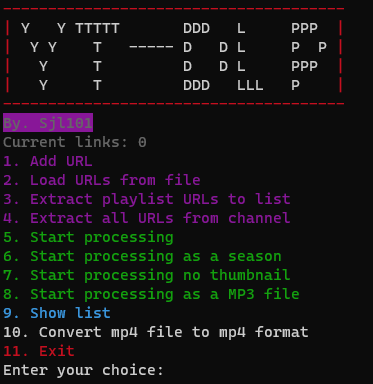
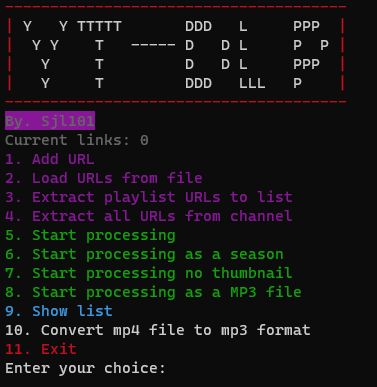
update
changed image and some code

Changed region(s): [[0.0, 0.0, 0.9142, 1.0]]

diff --git a/yt-dlp.py b/yt-dlp.py
@@ -7,6 +7,7 @@ from pytube import Playlist
 from colorama import Fore, Back, Style
 import scrapetube
 from pydub import AudioSegment
+from datetime import datetime
 
 class VideoDownloaderApp:
     def __init__(self):
@@ -48,7 +49,7 @@ class VideoDownloaderApp:
 
     def load_urls_from_file(self, filename):
         script_directory = os.path.dirname(os.path.abspath(__file__))
-        file_path = os.path.join(script_directory, filename)
+        file_path = os.path.join(script_directory, "input", filename)
 
         try:
             with open(file_path, 'r') as file:
@@ -338,7 +339,7 @@ class VideoDownloaderApp:
 
     def move_to_urllog_file(self, url):
         with open(self.urllog_file, "a") as f:
-            f.write(url + "\n")
+            f.write(datetime.now() + url + "\n")
 
     def remove_from_input_file(self, url):
         script_directory = os.path.dirname(os.path.abspath(__file__))
@@ -373,9 +374,12 @@ class VideoDownloaderApp:
 
     def convert_mp4_to_mp3(self, input_file, output_file):
         try:
+            if not os.path.exists("mp3_output"):
+                # Create a new directory because it does not exist
+                os.makedirs("mp3_output")
             script_directory = os.path.dirname(os.path.abspath(__file__))
-            file_path = os.path.join(script_directory, input_file)
-            output_path = os.path.join(script_directory, output_file)
+            file_path = os.path.join(script_directory, "input",input_file)
+            output_path = os.path.join(script_directory, "mp3_output", output_file)
             command = f"ffmpeg -i {str(file_path)} -vn -acodec libmp3lame {str(output_path)}"
             os.system(command)
             print(f"Conversion successful! MP3 file saved as {output_path}")
@@ -386,6 +390,9 @@ class VideoDownloaderApp:
 if __name__ == '__main__':
     app = VideoDownloaderApp()
     while True:
+        if not os.path.exists("input"):
+                # Create a new directory because it does not exist
+                os.makedirs("input")
         os.system('cls' if os.name == 'nt' else 'clear')
         app.print_large_ascii_art("yt-dlp")
         print(Style.DIM + Fore.WHITE + Back.MAGENTA + "By. Sjl101"+ Back.RESET)
@@ -402,7 +409,7 @@ if __name__ == '__main__':
         print(Fore.GREEN + "7. Start processing no thumbnail")
         print(Fore.GREEN + "8. Start processing as a MP3 file")
         print(Fore.CYAN + "9. Show list")
-        print(Fore.WHITE + "10. Convert mp4 file to mp4 format")
+        print(Fore.WHITE + "10. Convert mp4 file to mp3 format")
         if not app.running:
             print(Fore.RED + "11. Exit") 
         choice = input(Fore.WHITE + "Enter your choice: ")
@@ -413,7 +420,7 @@ if __name__ == '__main__':
             filename = input(Fore.WHITE + "Enter the input file name (including .txt): ")
             app.load_urls_from_file(filename)
         elif choice == '3' and not app.running:
-            playlisturl = input(Fore.WHITE + "Enter Playlist URL: ")
+            playlisturl = input(Fore.WHITE + "Enter Playlist ID: ")
             app.extract_playlist(playlisturl)
         elif choice == '4' and not app.running:
             channelid = input(Fore.WHITE + "Enter channel ID: ")

diff --git a/README.md b/README.md
@@ -1,6 +1,5 @@
 # yt-dlp
 a program i made using yt-dlp that allows you to mass download videos and some other features
----------------
 
 to download and run the program you only need the yt-dlp.py file
 and to run the program use the following command
